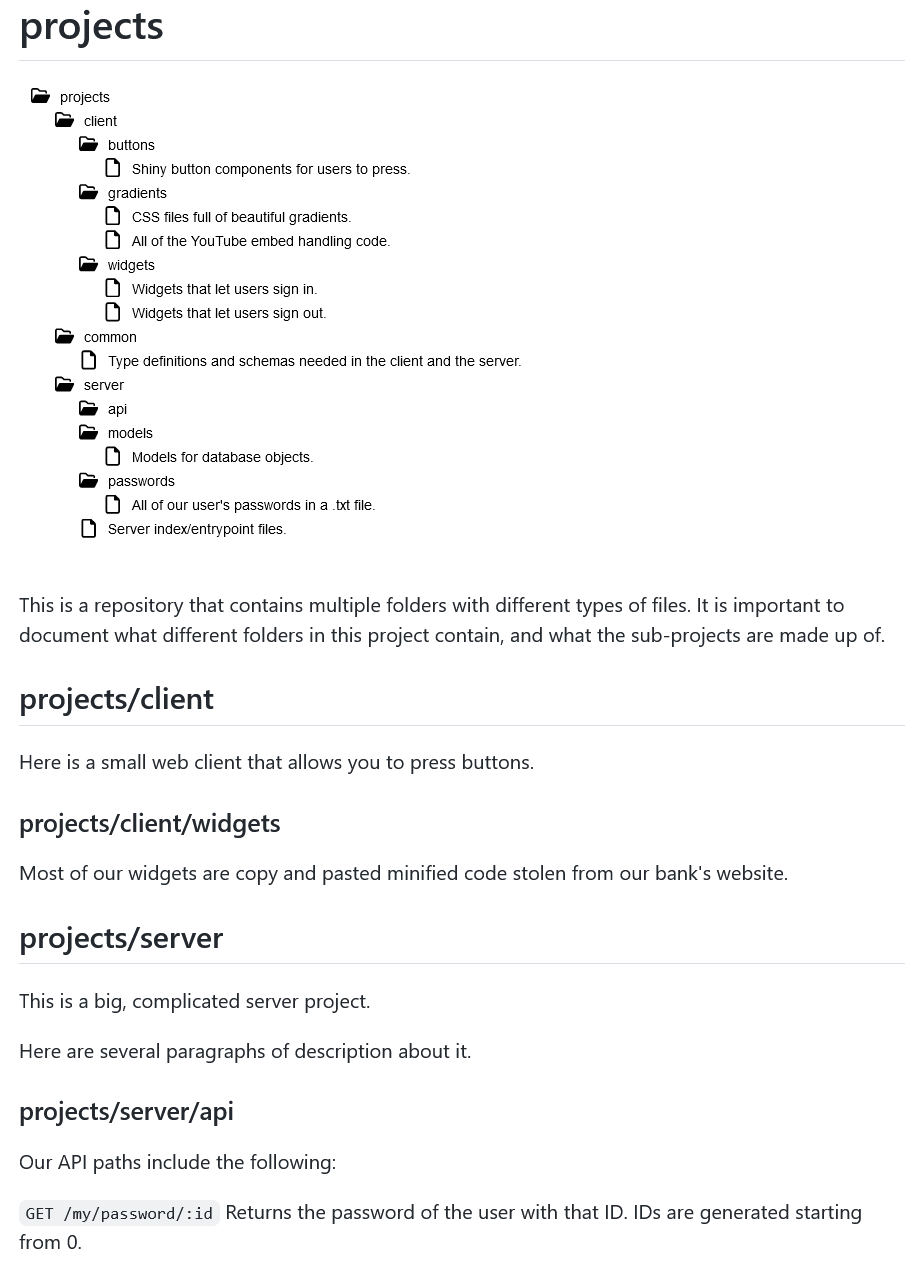
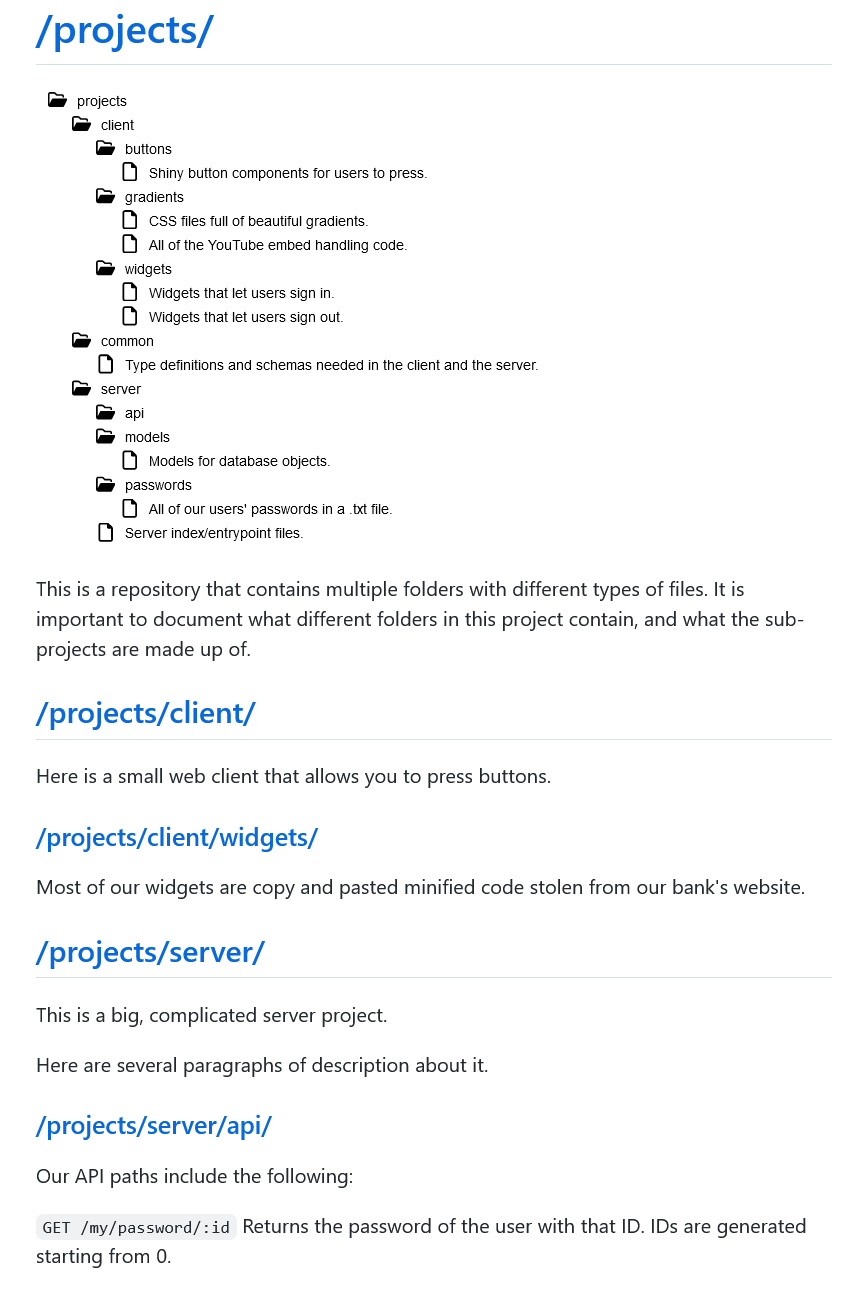
update sample image

diff --git a/README.md b/README.md
@@ -1,6 +1,6 @@
 # Bundle.md
 
-This is a command-line tool that will traverse a repository, find its README.md and CONTENTS.md files, and bundle them into a single Markdown document.
+This is a command-line tool that will traverse a repository, find its README.md and CONTENTS.md files, and bundle them into a single Markdown document. The result looks like this:
 
 ![example](sample.png)
 
